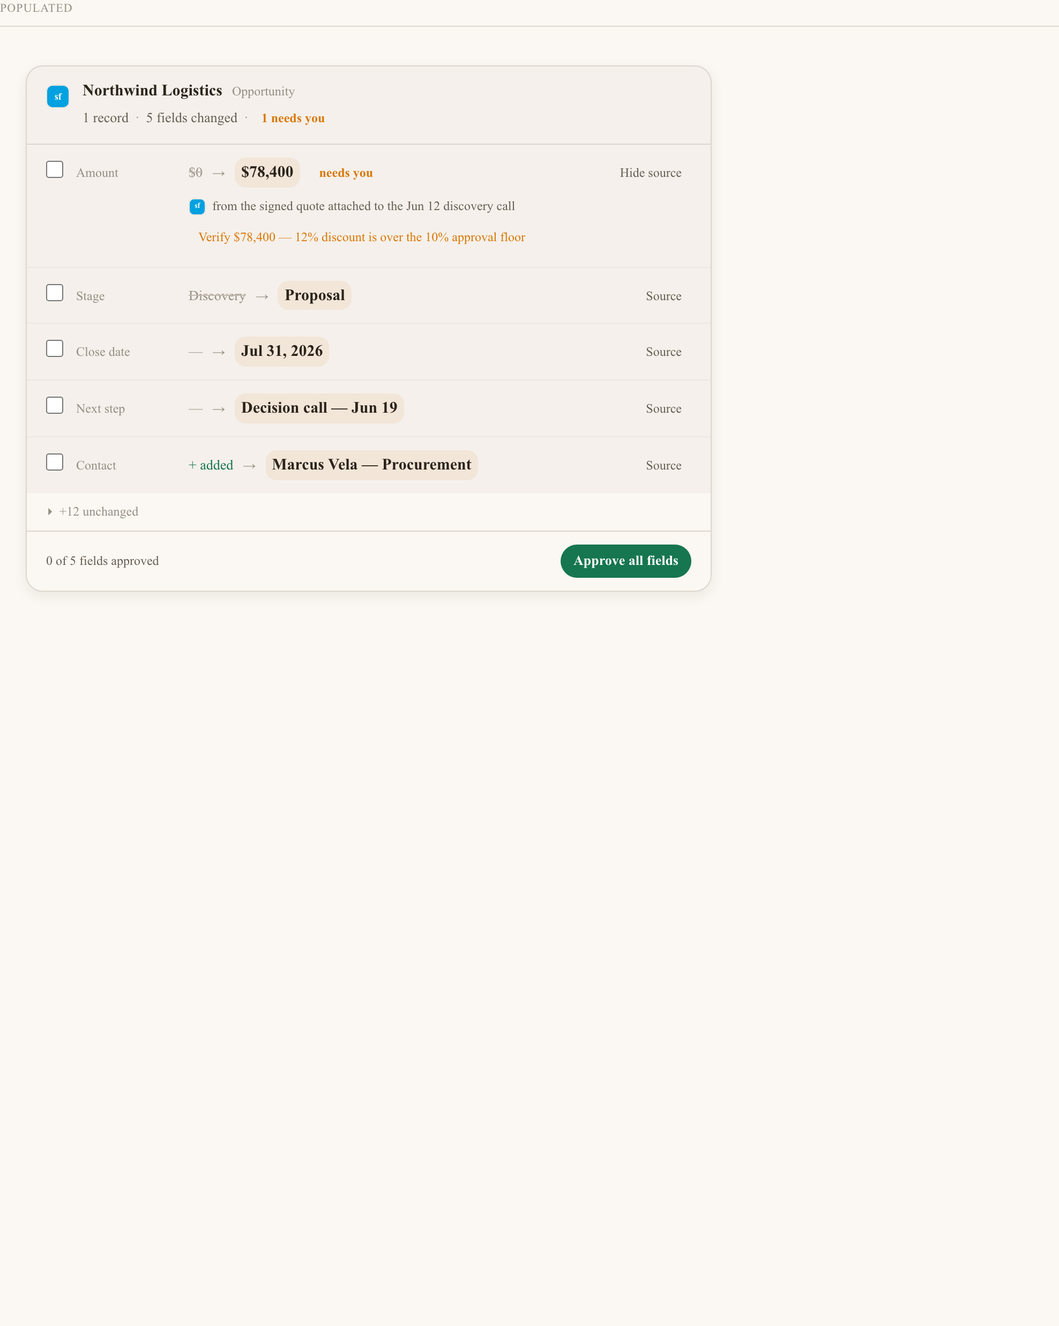
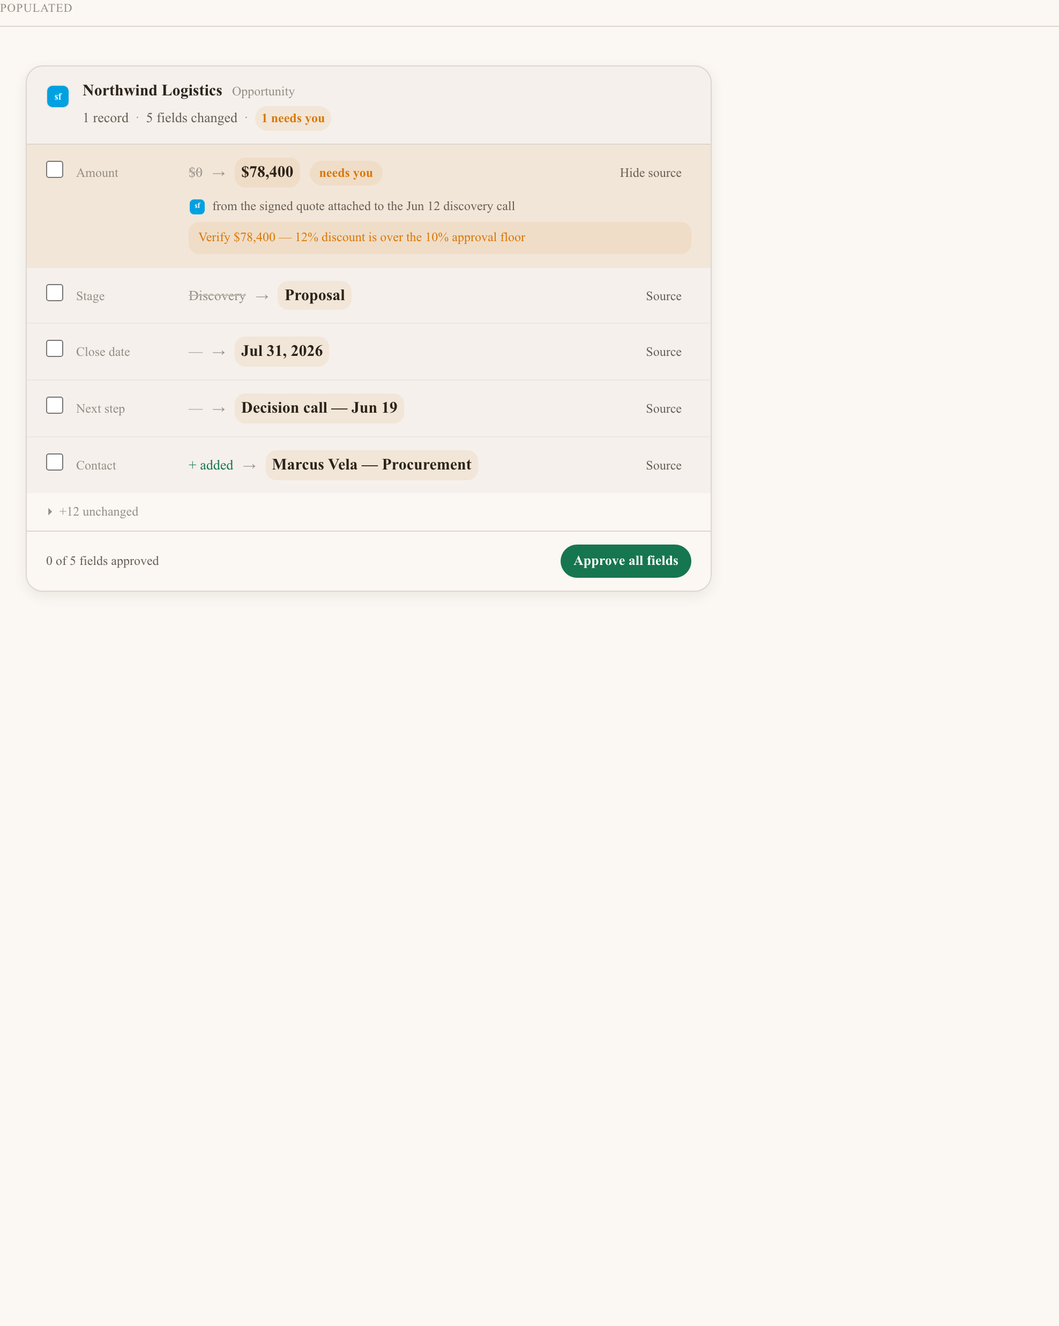
design(AL1): /design-critique fixes — define dim fills, valid code-diff DOM
- Substitute undefined --status-success-dim/--status-warning-dim (resolved to
  transparent → empty fills) with defined --accent-primary-dim/--accent-secondary-dim
  across FieldChangeSet/ActionOperation/RenderedInContext.
- ReviewCodeDiff: file-card header button→div role=button (was nesting the
  ReviewedBox button = invalid DOM/hydration warning).
- Add design-critique-components.md + refreshed screenshots.
Deferred to /human-design-review: RenderedInContext claim-flag ordering,
VisualDiff region↔frame spatial anchor (founder steer).

Changed region(s): [[0.1544, 0.0934, 0.6483, 0.2179]]

diff --git a/packages/web/src/pages/review/ReviewFieldChangeSet.tsx b/packages/web/src/pages/review/ReviewFieldChangeSet.tsx
@@ -133,9 +133,9 @@ function FieldRow({
 			className="border-b border-[var(--border-subtle)] last:border-b-0"
 			style={
 				needs
-					? { background: "var(--status-warning-dim)" }
+					? { background: "var(--accent-secondary-dim)" }
 					: approved
-						? { background: "var(--status-success-dim)" }
+						? { background: "var(--accent-primary-dim)" }
 						: undefined
 			}
 		>
@@ -182,7 +182,7 @@ function FieldRow({
 								<span
 									className="rounded-[var(--r-pill)] px-[9px] py-[3px] text-[12px] font-[600]"
 									style={{
-										background: "var(--status-warning-dim)",
+										background: "var(--accent-secondary-dim)",
 										color: "var(--status-warning)",
 									}}
 								>
@@ -213,7 +213,7 @@ function FieldRow({
 								<div
 									className="rounded-[var(--r-subtle)] px-[9px] py-[6px] text-[12px]"
 									style={{
-										background: "var(--status-warning-dim)",
+										background: "var(--accent-secondary-dim)",
 										color: "var(--status-warning)",
 									}}
 								>
@@ -293,7 +293,7 @@ export function ReviewFieldChangeSet({
 						<span
 							className="rounded-[var(--r-pill)] px-[6px] py-[3px] text-[12px] font-[600]"
 							style={{
-								background: "var(--status-warning-dim)",
+								background: "var(--accent-secondary-dim)",
 								color: "var(--status-warning)",
 							}}
 						>

diff --git a/packages/web/src/pages/review/ReviewActionOperation.tsx b/packages/web/src/pages/review/ReviewActionOperation.tsx
@@ -115,8 +115,8 @@ export function ReviewActionOperation({
 				className="mx-[18px] flex items-baseline justify-between border px-[18px] py-[12px]"
 				style={{
 					borderRadius: "var(--r-subtle)",
-					borderColor: "var(--status-warning-dim)",
-					background: "var(--status-warning-dim)",
+					borderColor: "var(--accent-secondary-dim)",
+					background: "var(--accent-secondary-dim)",
 				}}
 			>
 				<span className="text-[11px] font-[600] uppercase tracking-[var(--tracking-caps)] text-[var(--text-tertiary)]">
@@ -258,7 +258,7 @@ function IrreversibleBadge(): JSX.Element {
 			style={{
 				borderRadius: "var(--r-pill)",
 				color: "var(--status-warning)",
-				background: "var(--status-warning-dim)",
+				background: "var(--accent-secondary-dim)",
 			}}
 		>
 			<span

diff --git a/packages/web/src/pages/review/ReviewRenderedInContext.tsx b/packages/web/src/pages/review/ReviewRenderedInContext.tsx
@@ -347,7 +347,7 @@ export function ReviewRenderedInContext({
 						<span
 							className="flex items-center gap-[6px] px-[9px] py-[3px] text-[12px] font-[600] uppercase"
 							style={{
-								background: "var(--status-warning-dim)",
+								background: "var(--accent-secondary-dim)",
 								color: "var(--status-warning)",
 								borderRadius: "var(--r-pill)",
 								letterSpacing: "var(--tracking-caps-sm)",

diff --git a/plans/AL1/design/design-critique-components.md b/plans/AL1/design/design-critique-components.md
@@ -1,0 +1,159 @@
+# AL1 — Review-canvas components: design critique (REVIEWER, independent + adversarial)
+
+Critique of the 8 rendered review-canvas components against `components-brief.md` §1-7, `spectrum-review-needs.md`, `tool-ecosystem-and-canvases.md`, `PRINCIPLES.md`, and `aesthetic-quality.md`. Shot at 1380px viewport, deviceScaleFactor 2, factory/Hearth-light theme. I did not produce these.
+
+---
+
+## TL;DR
+
+- **Per-component averages (9 dims):** Outcome-Finance **8.1** · Outcome-Support **8.0** · Field-ChangeSet **7.3** · Action-Operation **8.2** · Rendered-in-Context **7.0** · Metrics-Moved **8.0** · Visual-Diff **7.2** · Code-Diff **8.4** · Batch **8.3**.
+- **Family verdict:** This is a real family, not eight one-offs. Shared chrome reads (cream card, mini-logo top-left, `needs you`/`BLOCKING` amber-red language, forest primary CTA, calm density). The layering is genuinely 3-tier in **6 of 8** — the founder's prior rejection reason (flat walls) is largely fixed. Two components (Rendered-in-Context, Visual-Diff) are the weak corners.
+- **The single biggest concern:** **`--status-success-dim` and `--status-warning-dim` are undefined tokens — they exist NOWHERE in `tokens.css`.** Every `var(--status-warning-dim)` / `var(--status-success-dim)` background resolves to `transparent` with no fallback. This is the exact "substituted undefined `*-dim` token" risk the brief flagged, and it is visibly broken: the "needs you" pill and the amber needs-you row washes in Field-ChangeSet, Action-Operation, and Rendered-in-Context render with NO fill. This must be fixed before `/human-design-review` — the founder will see colorless pills where amber emphasis was specified.
+
+---
+
+## 0. The cross-cutting token bug (read this first)
+
+`packages/design-system/src/tokens.css` defines only four `-dim` tokens: `--accent-primary-dim`, `--accent-secondary-dim`, `--status-info-dim`, `--status-error-dim`. **`--status-success-dim` and `--status-warning-dim` do not exist in the repo.** Usages with no fallback (→ resolve to `transparent`):
+
+- `ReviewFieldChangeSet.tsx` L136 (needs-you row wash), L138 (approved row wash), L185 (the **"needs you" pill** bg), L216 (L3 needs-you detail bg), L296 (footer)
+- `ReviewActionOperation.tsx` L118-119 (the IRREVERSIBLE header band border+bg), L261 (warning band)
+- `ReviewRenderedInContext.tsx` L350 (the FLAG row wash)
+
+**Visible symptom:** Field-ChangeSet `field-changeset.png` — the orange "needs you" pill next to $78,400 shows orange text on an **empty/transparent** background (no amber pill fill), and the Amount row has no amber wash to float it. Action-Operation's IRREVERSIBLE band (line 118) survives only because line 205 uses the *defined* `--status-error-dim` for the red callout — the amber header band itself is transparent. **Highest-value family-wide fix.** Either add the two tokens to `tokens.css` (preferred — completes the scale) or switch these references to the defined `--status-error-dim`/`--accent-secondary-dim`.
+
+Other token notes (non-blocking):
+- `ReviewRenderedInContext.tsx` L149-209: the email body uses raw hex (`#ffffff`, `#e2dcd2`, `#2f6b4f`, `#faf7f1`, `#8a8174`, …). **Defensible** — this is the foreign branded email surface rendered as-it-lands (same nominative-use carve-out as `ToolLogo`). Recommend a file-level `// foreign-surface` directive + comment so the lint exemption is explicit and the next agent doesn't "fix" it into Hearth tokens (which would defeat the in-the-inbox realism).
+- `ReviewVisualDiff.tsx` L145, L286: `var(--text-on-accent,#fff)` — hex fallback on a defined token. Cosmetic; drop the `,#fff`.
+- `ReviewBatch.tsx` `#20418` etc. are ticket-reference strings, not colors. False positive.
+
+---
+
+## 1. Per-component scores + layering verdict
+
+Scale 0-10. Dims: hierarchy / spacing / typography / color / coherence / states / a11y / anti-slop / premium-polish.
+
+### 1 · ReviewOutcomeSummary — Finance (`outcome-finance.png`)
+**8 / 8 / 8 / 7 / 9 / 7 / 8 / 9 / 8 — avg 8.1**
+- **Hierarchy (8):** Excellent. `Atlas → You` + `BLOCKING` top, then the one-sentence achievement at ~24px, then tools row + cost, then DONE CONDITIONS, then NEEDS YOU. Reads top-down exactly as the brief's L1→L2 demands.
+- **Color (7):** `BLOCKING` pill is red-on-pink, the unmet ✗ condition is red, NEEDS YOU items are red/amber-tinted. Correct semantics. Docked one point: the `UNHANDLED EXCEPTION` chip is solid red-filled while `OVER AUTHORITY` is amber-outline — the weight difference is good (floats the worse one) but verify it's intentional ordering, not accidental.
+- **States (7):** Populated + blocking shown. Empty/loading specified in comments per brief (not visible here).
+- **Layering verdict — 3 LAYERS, CLEAN.** L1 = sender/achievement/tools/cost/standing. L2 = done-conditions (3-of-4, the unmet floated, 3 met collapsed to one line — exactly the relevance rule). L3 = the per-item "Jump ↓" to the proof canvas. This is the model done right.
+
+### 2 · ReviewOutcomeSummary — Support (`outcome-support.png`)
+**8 / 8 / 8 / 7 / 9 / 7 / 8 / 9 / 8 — avg 8.0**
+- Parameterization proof: same skeleton, Zendesk+Slack logos, "41 tickets — 18 auto-resolved, 19 drafted, 4 flagged" headline. The function-agnostic frame thesis holds — this is the strongest single argument in the set that the frame is reusable.
+- **Nit:** `slack` mini-logo label is lowercase while `Zendesk`/`QuickBooks`/`Stripe` are title-case. Inconsistent — title-case it.
+- **Layering verdict — 3 LAYERS, CLEAN.** Same structure as Finance; the IRREVERSIBLE / OVER AUTHORITY needs-you items float correctly.
+
+### 3 · ReviewFieldChangeSet (`field-changeset.png`)
+**7 / 8 / 8 / 6 / 8 / 6 / 7 / 8 / 7 — avg 7.3**
+- **Color (6):** dragged down by the token bug — the "needs you" pill has no fill (§0), so the single most important field (Amount, over the 10% floor) loses its amber emphasis. The amber-tan `--accent-secondary-dim` value pills (Proposal, Jul 31, Decision call, Marcus Vela) read well and are defined.
+- **Hierarchy (7):** the Amount row IS floated to top with the source line + the orange "Verify $78,400 — 12% discount over 10% floor" warning expanded by default (good L3-visible-in-static-render). But because the needs-you wash is transparent, the float relies entirely on position + the (working) orange text — weaker than intended.
+- **States (6):** populated only; checkboxes all unchecked, "0 of 5 fields approved" — fine, but the approved-row green wash (`--status-success-dim`, also undefined) means the approve-interaction state is also broken on paint.
+- **Anti-slop (8):** `+12 unchanged` collapsed correctly. `Approve all fields` is a forest pill. Good.
+- **Layering verdict — 3 LAYERS, mostly.** L1 = "1 record · 5 fields changed · 1 needs you" header. L2 = the before→after grid (old strikethrough → new pill). L3 = the expanded source line + verify-warning on Amount. Drill-down present. The collapse of unchanged + the float of the over-floor field satisfy relevance-ordering. **The token bug is what costs it.**
+
+### 4 · ReviewActionOperation (`action-operation.png`)
+**9 / 8 / 9 / 7 / 8 / 7 / 8 / 9 / 9 — avg 8.2**
+- **Best embodiment of its signature.** The `$1,240.00 USD` in the framed REFUND AMOUNT box is the hero, money-prominent, IRREVERSIBLE pill top-right. Reads as a real pre-commit Stripe receipt — charge id, customer, reason, idempotency key, net-after-refund all in mono, right-aligned. This is the T3-receipt language done well.
+- **Premium-polish (9):** the framed amount box, the mono receipt rows, the "Blast radius & reversibility" collapsible with the red IRREVERSIBLE callout, then `Reject` / `Approve refund` (forest) gate — staged, calm, precise.
+- **Color (7):** the red IRREVERSIBLE callout (L205, `--status-error-dim`, defined) renders. But the top-band amber `IRREVERSIBLE` treatment at L118-119 uses the undefined `--status-warning-dim` — that header band's intended wash is transparent (§0). It survives visually because the text+dot carry it, but it's not what was specified.
+- **Layering verdict — 3 LAYERS, CLEAN.** L1 = action headline + $ + IRREVERSIBLE. L2 = the receipt rows. L3 = the expanded blast-radius/reversibility + the Approve/Reject gate. Textbook.
+
+### 5 · ReviewRenderedInContext (`rendered-in-context.png`)
+**7 / 7 / 7 / 7 / 7 / 6 / 6 / 7 / 7 — avg 7.0**
+- **The weakest of the strong-concept set.** The inbox-row L1 (Mailchimp · 12,400 + trial · "Your team, minus the busywork — now $19" + preview + 9:00 AM) is good and on-brief. The opened render with Desktop/Mobile toggle is the right L2.
+- **a11y (6) / typography (7):** the email body is a foreign hex surface (defensible, §0) but the **"Run a team of agents. Keep the final say." headline is centered** inside the email card. Per AQ-106 centered body is allowed inside email/marketing surfaces — but it sits right next to seven left-aligned Hearth cards in the family, so in a screenshot it reads as the one centered-hero tell. Acceptable *because it's the rendered asset*, not Hearth chrome — but flag it so the founder reads it as "the email, not our UI."
+- **Layering (6→ weakest):** L1 inbox-row ✓, L2 opened render ✓, but **L3 is thin** — the `1 FLAG · unverified claim · send plan · exclusions` strip at the bottom is collapsed to a single dim row and the "Set up in under 5 minutes — Unverified claim, no source" detail is present but visually buried below the fold of attention. The claim-ledger (the actual review value for marketing — the unverified superlative) is the least prominent thing on screen. **Relevance-ordering is inverted here:** the biggest risk (an unverified claim shipping to 12,400) should float up near L1, not sit last under the send plan.
+- **Recommendation drives the lowest score:** float the flagged claim up.
+
+### 6 · ReviewMetricsMoved (`metrics-moved.png`)
+**8 / 8 / 8 / 8 / 8 / 7 / 8 / 8 / 8 — avg 8.0**
+- **Strong.** L1 = three moved-headline cards (Recognized revenue $612,400 +$24,400 ▲, Cash $1,284,302, AR $118,900 −$25,400 ▼) materiality-sorted, "3 exceptions · 2 need you" floated top-right in red. L2 = the ROLL-FORWARD reconciliation table with changed activity cells highlighted amber and the green **"Opening + activity = Closing ties to bank ✓"** tie-out band. L3 = per-figure provenance ("GL account 4000 · from Stripe MRR report …") expanded on the revenue card + the EXCEPTIONS list by-$ ($9,840 → $4,200 → $31,500), each with NEEDS YOU / TIMING tags.
+- **This is the relevance-ordering exemplar** — exceptions sorted by dollar amount, tie-out proven, provenance one drill down. The amber changed-cell highlights use `--accent-secondary-dim` (defined) so they render.
+- **Docked:** dense — the table + 3 cards + exceptions is a lot at once; the L1→L2 elevation break is subtler than Outcome/Action (it relies on the section labels ROLL-FORWARD / EXCEPTIONS rather than a strong elevation/collapse). Verify it doesn't read as a flat finance wall at smaller widths. Tie-out band color: confirm the green is `--status-success` text on a defined bg, not the undefined `-dim`.
+
+### 7 · ReviewVisualDiff (`visual-diff.png`)
+**7 / 7 / 7 / 7 / 7 / 6 / 7 / 8 / 7 — avg 7.2**
+- L1 = two thumbnails + Figma logo + "3 regions differ" + `Onboarding / Account · v4 → SignupScreen.tsx`. L2 = Side-by-side / Overlay / Swipe toggle (Side-by-side active, forest) + the DESIGN vs BUILD frames at size. L3 = DIFFERING REGIONS list ("Email field missing in build", "CTA color forest vs amber", "Hero spacing 24 → 16") with strikethrough before→after.
+- **Genuinely clever:** the diff regions are expressed in *design-token language* (`--accent-primary (forest) → --accent-secondary (amber)`, `--space-8 (24px) → --space-6 (18px)`) — that's the most on-brand, tool-grounded detail in the set and a real differentiator vs a generic image-diff.
+- **Docked (color/coherence 7):** the BUILD frame's CTA is rendered **amber/orange** (correctly, it's the "bug") but a reviewer scanning fast may read amber-CTA as a Hearth status-warning rather than "the wrong build color." The intent is right but the signal collides with Hearth's amber semantics. Consider a neutral diff-callout (dotted outline + label) over relying on the literal wrong color alone.
+- **Layering (6):** the three toggles imply L2 interactivity but only Side-by-side is shown; the differing-regions L3 is good but doesn't visibly tie a region-chip to a highlighted region *on the frame* (no spatial anchor drawn on the thumbnails). The drill-down is list-only, not spatial — weaker than Code-Diff's hunk anchoring.
+
+### 8 · ReviewCodeDiff (`code-diff.png`)
+**9 / 8 / 9 / 8 / 8 / 7 / 8 / 9 / 9 — avg 8.4 — highest**
+- **The must-win, and it wins.** PR header (`acme/storefront #1428 OPEN`, GitHub logo, "Fix expired-promo checkout returns silent success → typed 422", **+140 −31**), the **CI checks row inline** (✓ All checks passed · tests · lint · build · typecheck · coverage +0.4%), "6 files changed · relevance-ranked" + **Collapse all**. This is the T3/GitHub language embodied precisely.
+- **Relevance-ranking is correct and the headline feature:** LOGIC section first (`src/billing/promo-webhook.ts` expanded with a **line-number gutter** and red/green hunk: the silent `ack(evt)` → typed `422 promo_expired`), then `PromoField.tsx` (+19 −2 collapsed), then `expired.test.ts` (+44 −0, green check), then **"3 files · OpenAPI regen + lockfile + formatting" collapsed** at the bottom. Meat=6 lines surfaced, generated/lockfile collapsed — exactly §4.
+- **Premium-polish (9):** the gutter, the `@@ -116,9 +116,18 @@` hunk header, the inline `+/−` line markers, the mono code, the green/red wash — all correct. This is shippable.
+- **Layering verdict — 3 LAYERS, CLEAN.** L1 PR header + checks + counts. L2 relevance-ranked file cards. L3 expand-a-file → guttered hunks. The best drill-down in the set.
+
+---
+
+## 2. Tool-grounding + reference-language audit
+
+| Component | Mini-logo present/legible | T3 reference language | Proof shown as the real thing |
+|---|---|---|---|
+| Outcome (both) | ✓ QuickBooks+Stripe / Zendesk+Slack row, legible | ✓ summary-block lead, change counts | ✓ achievement sentence + standing |
+| Field-ChangeSet | ✓ `sf` Salesforce, in header + per-field L3 | ✓ collapsible card, change badge "5 fields", unchanged collapsed, per-field source | ✓ real before→after field grid w/ strikethrough |
+| Action-Operation | ✓ `S` Stripe | ✓ receipt rows, blast-radius collapse | ✓✓ **best** — staged pre-commit Stripe receipt, idempotency key |
+| Rendered-in-Context | ✓ Mailchimp `M` | ~ inbox-row + toggle good; claim-ledger weak | ✓ email renders as-it-lands |
+| Metrics-Moved | ✓ QuickBooks + Stripe (provenance) | ✓ changed cells, tie-out ✓, Collapse ("Show 9 items") | ✓✓ moved figures + tie-out + provenance |
+| Visual-Diff | ✓ Figma `F` | ✓ side-by-side, swap/overlay toggle | ✓ design-vs-build at size; diffs in token language |
+| Code-Diff | ✓ GitHub | ✓✓ **best** — collapse-all, gutter, CI inline, change badge | ✓✓ real gutter+hunks |
+| Batch | ✓ Zendesk | ✓ rollup, flagged-pinned, routine-collapsed, **Approve all except flagged (37)** | ✓ real ticket rows + drafted-reply rendered in-ticket |
+
+**Verdict:** Tool-grounding is universal and legible across all 8. The T3/Copilot reference language is fully embodied in Code-Diff, Action-Operation, Metrics-Moved, Field-ChangeSet; lightly in Rendered-in-Context and Visual-Diff (those lean on their domain rather than the T3 card idiom — acceptable, they're different proof families). No generic/placeholder logos seen.
+
+---
+
+## 3. Relevance-ordering audit (meat-first, float-outlier, collapse-trivia)
+
+- **Outcome (both):** ✓ unmet condition floated, 3-met collapsed; needs-you items ordered worst-first (IRREVERSIBLE/UNHANDLED above OVER-AUTHORITY).
+- **Field-ChangeSet:** ✓ Amount (over-floor) floated to top with source+verify expanded; `+12 unchanged` collapsed.
+- **Metrics-Moved:** ✓✓ exemplar — exceptions sorted by $ descending ($9,840 → $4,200 → $31,500-timing), headline cards materiality-sorted, "Show 9 items" collapse.
+- **Code-Diff:** ✓✓ logic top, generated/lockfile/formatting collapsed to "3 files".
+- **Batch:** ✓✓ 4 flagged pinned top (with rank numbers 1-4 by ARR/heat), 18 auto-resolved + 19 drafted collapsed to one line each.
+- **Rendered-in-Context:** ✗ **INVERTED** — the unverified-claim flag (the actual risk) sits LAST, below the send plan. Should float up. This is the one relevance miss in the set.
+- **Visual-Diff:** ~ regions listed but not impact-ranked on screen (Email-missing, CTA-color, Hero-spacing appear list-order, not severity-order); a missing field is arguably more severe than a spacing px and should lead.
+
+---
+
+## 4. Anti-slop / token audit
+
+- **AI-aesthetic tells:** No gradients, no glass, no `rounded-3xl`, no purple/indigo, no stock 3-col identical-card grid (the Metrics 3 headline cards are heterogeneous values, not the AQ-108 pattern). One centered headline — but it's *inside the rendered email* (AQ-106 carve-out), not Hearth chrome. **No AI-slop tells in the Hearth chrome itself.** Clean.
+- **Token violations:** the undefined `--status-success-dim` / `--status-warning-dim` (§0) — the one real, blocking issue. Plus the cosmetic `,#fff` fallbacks in Visual-Diff and the (defensible) foreign-surface hex in the email.
+- **Off-grid/off-scale:** spot-check of classNames shows `px-[18px]/py-[12px]/gap-[9px]/gap-[6px]` (on the {3,6,9,12,18,24} grid), `text-[12px/13px/15px]` (on the type scale), `rounded-[var(--r-subtle/-pill)]`. No off-grid/off-scale values seen in the read samples. Lint will confirm.
+
+---
+
+## 5. Cross-cutting
+
+**Family coherence — YES.** Shared cream card on `--surface-elevated`, mini-logo top-left, `needs you`/`BLOCKING`/`NEEDS YOU` consistent amber-red language, forest primary CTA + ghost secondary (`Reject`/`Request changes`/`Hold`), `Jump ↓` / `Source` / `Collapse all` affordance vocabulary, calm desktop density. A reviewer would recognize these as one product.
+
+**The 3 sharpest problems a real reviewer hits:**
+1. **Undefined `-dim` tokens (§0)** — the needs-you/approved emphasis washes are transparent in 3 components. The amber "needs you" pill — the most important attention signal in the whole review surface — renders without fill. Blocking.
+2. **Rendered-in-Context buries the risk** — the unverified claim (the entire reason to review a 12,400-recipient send) is the least-prominent element. Relevance-ordering inverted. The one component where the review value is hidden.
+3. **Visual-Diff has no spatial anchor** — region chips don't tie to highlighted regions on the frames, and the "wrong" amber CTA collides with Hearth's amber-warning semantics. The drill-down is list-only where a spatial overlay is the natural affordance.
+
+**What's missing (states / families):**
+- **No empty/loading/error renders captured.** Every component's `Populated` was shot; the brief requires populated + empty + loading-skeleton + needs-you-emphasis. Only populated + needs-you are visible. The founder can't review the skeleton-loading shape (D-principle: skeleton matches layout) or the empty state from these screenshots. Recommend shooting at least the loading skeleton for Code-Diff and Batch (the two with the most layout to skeleton).
+- **Proof-family coverage:** 7 families + batch are all present. The "live/interactive" proof kind from `spectrum-review-needs.md §2` (Product app-at-changed-screen) is intentionally out of scope for AL1 — fine, note it as the known gap for a follow-up.
+
+---
+
+## 6. Per-component highest-value fix (raise before `/human-design-review`)
+
+1. **Outcome-Finance:** title-case parity already fine here; lowest-effort polish — confirm the solid-red vs amber-outline needs-you weighting is deliberate (worst-floats). Otherwise ship-ready.
+2. **Outcome-Support:** title-case the `slack` mini-logo label to `Slack` (consistency with the other logos).
+3. **Field-ChangeSet:** **define `--status-warning-dim` + `--status-success-dim`** (or switch L136/138/185/216/296 to defined tokens) so the "needs you" pill and the floated Amount row actually fill amber. This is the make-or-break for the component.
+4. **Action-Operation:** point the IRREVERSIBLE header band (L118-119) at a defined token so the amber wash paints; the rest is ship-ready.
+5. **Rendered-in-Context:** **float the unverified-claim flag up** to sit directly under the inbox-row L1 (it's the review's whole point); add a `// foreign-surface` lint directive + comment over the email hex block.
+6. **Metrics-Moved:** strengthen the L1→L2 elevation break (the table currently reads close to the cards) — a shadow/divider or collapse on the reconciliation table so it reads as drill-down, not a flat finance wall.
+7. **Visual-Diff:** draw a spatial anchor — highlight the differing region ON the frame and link it to its chip; reconsider relying on the literal amber CTA (add a neutral diff outline) so it doesn't read as Hearth status-warning.
+8. **Code-Diff:** ship-ready. Only nicety: capture the loading-skeleton state for the founder, since it has the most layout to skeleton.
+
+**Plus one family-wide fix:** add the two missing `-dim` tokens to `tokens.css` (completes the `-dim` scale: all four statuses + both accents) — this single change resolves the §0 bug across Field-ChangeSet, Action-Operation, and Rendered-in-Context at once. Do this first.
+
+---
+*Findings only. No TSX edited. The builder applies; the founder iterates each in `/human-design-review`.*
